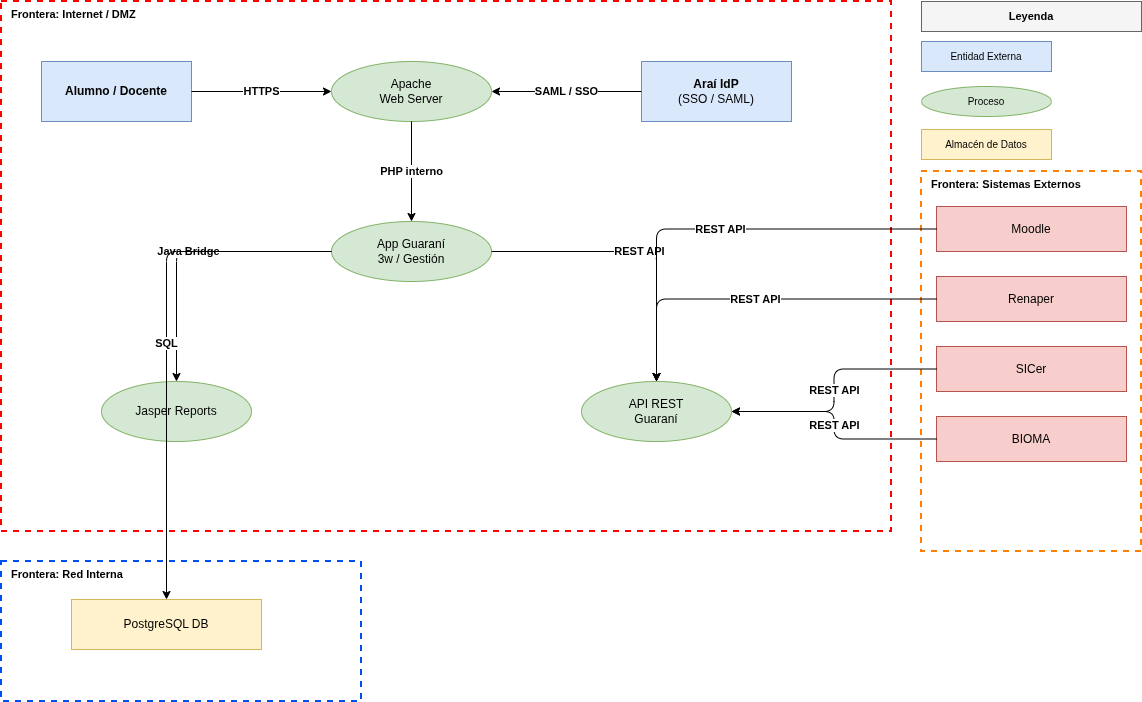
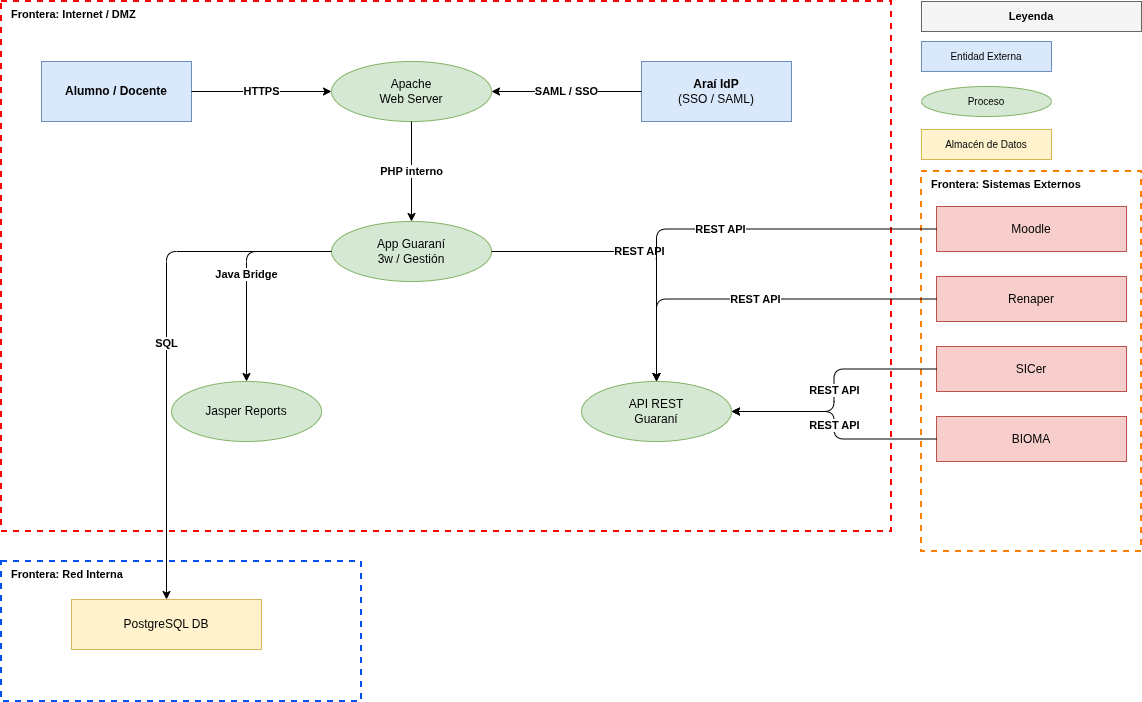
feat: informe final

Changed region(s): [[0.0919, 0.5385, 0.3065, 0.6282], [0.1839, 0.3889, 0.2452, 0.4188], [0.1532, 0.3291, 0.1839, 0.3889]]

diff --git a/generar-pdf.py b/generar-pdf.py
@@ -1,0 +1,113 @@
+#!/usr/bin/env python3
+"""Genera informe_temp.pdf desde informe.html via Chrome DevTools Protocol.
+displayHeaderFooter=False garantiza que no aparezca ningún pie de página."""
+
+import os, sys, time, json, base64, subprocess, urllib.request, urllib.error
+import websocket
+
+SCRIPT_DIR = os.path.dirname(os.path.abspath(__file__))
+HTML       = f"file://{SCRIPT_DIR}/informe.html"
+OUTPUT     = f"{SCRIPT_DIR}/informe_temp.pdf"
+PORT       = 9224
+
+def wait_for_cdp(port, retries=40):
+    for _ in range(retries):
+        time.sleep(0.5)
+        try:
+            with urllib.request.urlopen(f"http://localhost:{port}/json/version") as r:
+                json.loads(r.read())
+                return True
+        except Exception:
+            continue
+    return False
+
+def cdp_call(ws, method, params=None, msg_id=1):
+    ws.send(json.dumps({"id": msg_id, "method": method, "params": params or {}}))
+    while True:
+        raw = ws.recv()
+        msg = json.loads(raw)
+        if msg.get("id") == msg_id:
+            return msg
+
+def main():
+    print("Iniciando Chrome...")
+    proc = subprocess.Popen(
+        [
+            "google-chrome",
+            "--headless=new",
+            "--disable-gpu",
+            "--no-sandbox",
+            "--disable-extensions",
+            "--disable-background-networking",
+            f"--remote-debugging-port={PORT}",
+            "--remote-allow-origins=*",
+            "about:blank",
+        ],
+        stdout=subprocess.DEVNULL,
+        stderr=subprocess.DEVNULL,
+    )
+
+    try:
+        if not wait_for_cdp(PORT):
+            print("Error: Chrome no respondió en el puerto CDP.", file=sys.stderr)
+            sys.exit(1)
+
+        # Obtener target de la pestaña
+        with urllib.request.urlopen(f"http://localhost:{PORT}/json") as r:
+            targets = json.loads(r.read())
+
+        page_targets = [t for t in targets if t.get("type") == "page"]
+        if not page_targets:
+            print("Error: no se encontró target de tipo page.", file=sys.stderr)
+            sys.exit(1)
+
+        ws_url = page_targets[0]["webSocketDebuggerUrl"]
+        ws = websocket.create_connection(ws_url, timeout=30)
+
+        # Habilitar dominio Page y navegar
+        cdp_call(ws, "Page.enable", msg_id=1)
+        cdp_call(ws, "Page.navigate", {"url": HTML}, msg_id=2)
+
+        # Esperar carga real
+        deadline = time.time() + 8
+        while time.time() < deadline:
+            try:
+                ws.settimeout(0.5)
+                msg = json.loads(ws.recv())
+                if msg.get("method") in ("Page.loadEventFired", "Page.frameStoppedLoading"):
+                    break
+            except Exception:
+                pass
+        ws.settimeout(30)
+        time.sleep(1)
+
+        # Generar PDF sin header/footer
+        result = cdp_call(ws, "Page.printToPDF", {
+            "displayHeaderFooter": False,
+            "printBackground":     True,
+            "paperWidth":          8.27,
+            "paperHeight":        11.69,
+            "marginTop":           0.55,
+            "marginBottom":        0.55,
+            "marginLeft":          0.63,
+            "marginRight":         0.63,
+        }, msg_id=3)
+
+        ws.close()
+
+        if "error" in result:
+            print(f"Error CDP: {result['error']}", file=sys.stderr)
+            sys.exit(1)
+
+        pdf_bytes = base64.b64decode(result["result"]["data"])
+        with open(OUTPUT, "wb") as f:
+            f.write(pdf_bytes)
+
+        print(f"Listo: {OUTPUT} ({len(pdf_bytes) // 1024} KB)")
+
+    finally:
+        proc.terminate()
+        proc.wait()
+
+if __name__ == "__main__":
+    main()